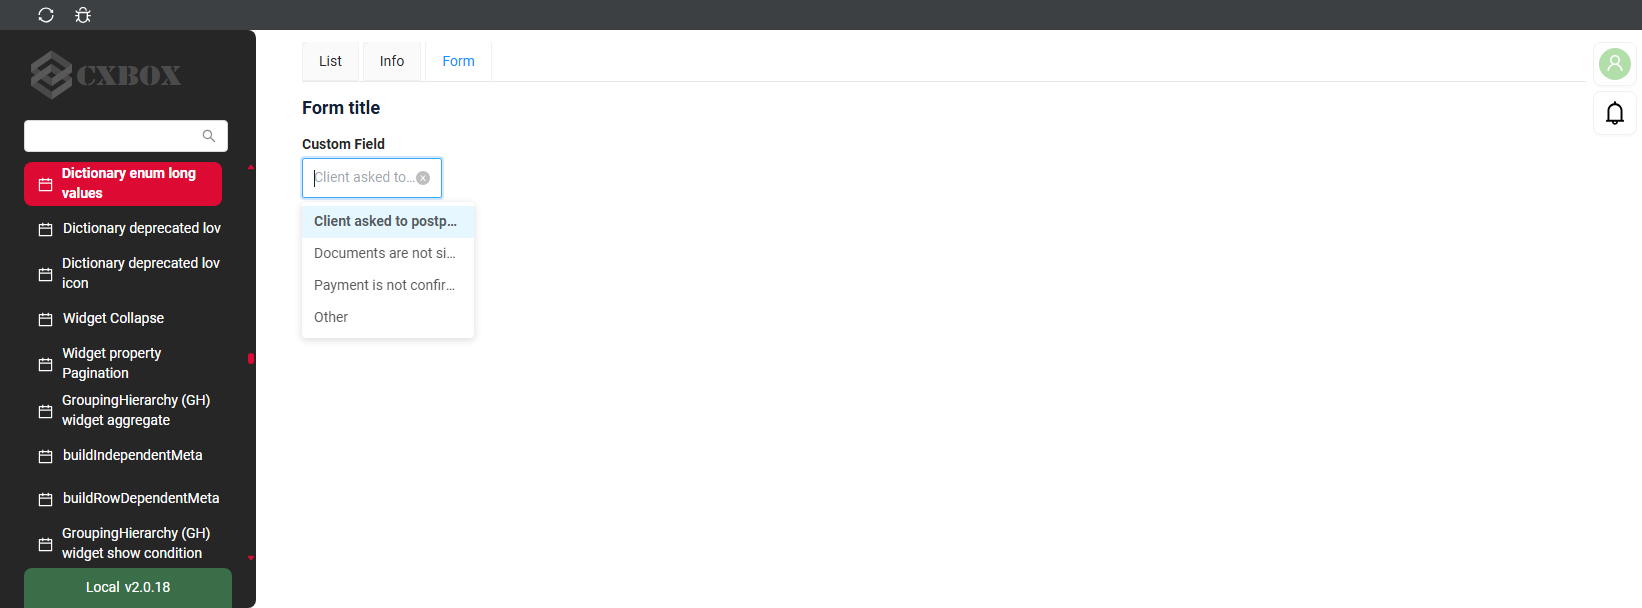
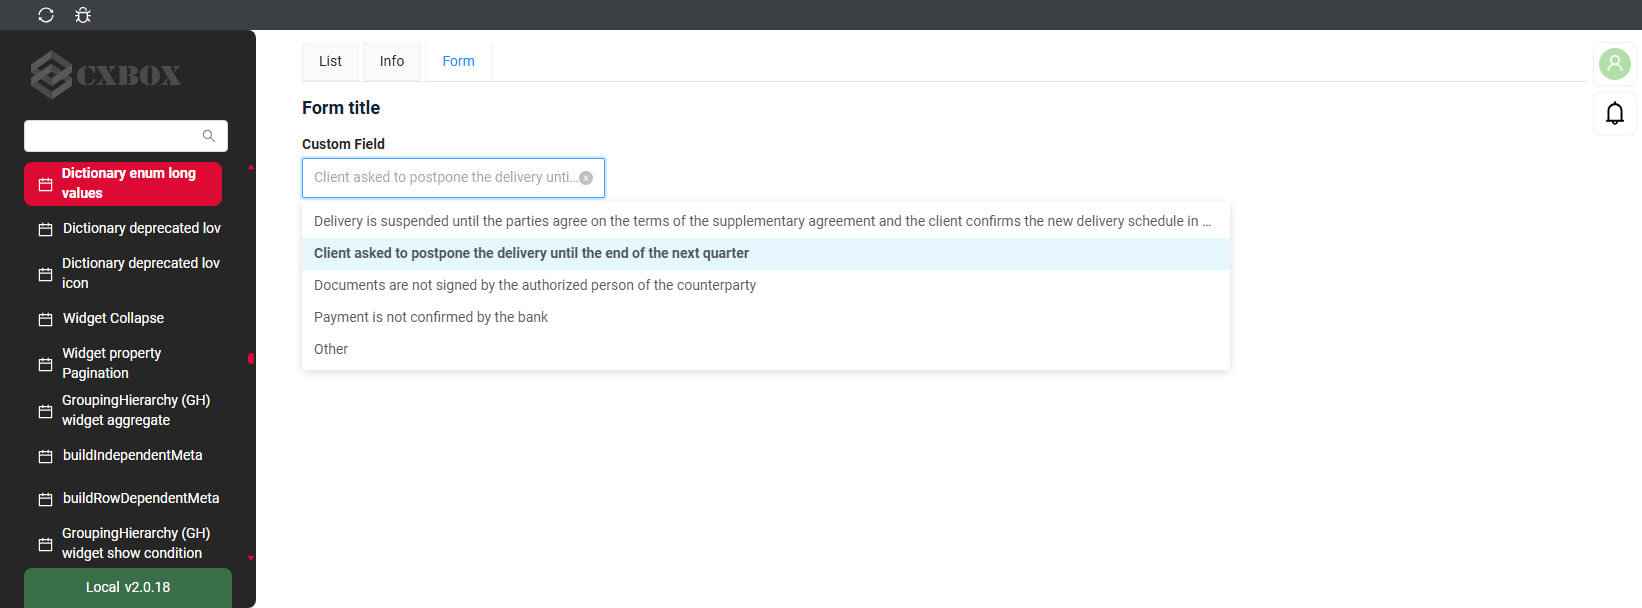
CXBOX-150 | Added. Drop-down width section got List/Info/Form tabs and the List image, dictionary default is 5

Changed region(s): [[0.1864, 0.25, 0.7765, 0.5312], [0.1864, 0.5625, 0.2174, 0.5938]]

diff --git a/docs/widget/fields/field/dictionary/dictionary.md b/docs/widget/fields/field/dictionary/dictionary.md
@@ -1571,14 +1571,19 @@ Custom icons can be uploaded. Icons should be uploaded in SVG format.
 
 ### Width of the drop-down list
 The drop-down list of a dictionary is never narrower than the field and grows with the longest value, but no wider
-than the limit set by a frontend constant (default value 1.3, in field widths).
+than the limit set by a frontend constant (default value 5, in field widths).
 
 * If a value does not fit the resulting width, it is shortened with an ellipsis (...).
 * Hovering over an option shows the full value in a tooltip.
 * Whatever the constant is, the list never takes more than 70% of the view, so it cannot cover the menu.
 
 #### How does it look?
-![img_dropdown_width_form.png](img_dropdown_width_form.png)
+=== "List widget"
+    ![img_dropdown_width_list.png](img_dropdown_width_list.png)
+=== "Info widget"
+    _not applicable_
+=== "Form widget"
+    ![img_dropdown_width_form.png](img_dropdown_width_form.png)
 
 #### How to add?
 ??? Example
@@ -1586,6 +1591,13 @@ than the limit set by a frontend constant (default value 1.3, in field widths).
     ```
     ui/src/fields/Dictionary/constants.ts
     ```
+
+    === "List widget"
+        **Works for List.**
+    === "Info widget"
+        **_not applicable_**, a read-only value has no drop-down list.
+    === "Form widget"
+        **Works for Form.**
 
     [:material-play-circle: Live Sample]({{ external_links.code_samples }}/ui/#/screen/myexample3359){:target="_blank"} ·
     [:fontawesome-brands-github: GitHub]({{ external_links.github_ui }}/{{ external_links.github_branch }}/src/main/java/org/demo/documentation/fields/dictionary/longvalues){:target="_blank"}

diff --git a/docs/widget/fields/field/multipleSelect/multipleSelect.md b/docs/widget/fields/field/multipleSelect/multipleSelect.md
@@ -455,7 +455,12 @@ than the limit set by a frontend constant (default value 1.3, in field widths).
 * Whatever the constant is, the list never takes more than 70% of the view, so it cannot cover the menu.
 
 #### How does it look?
-![img_dropdown_width_form.png](img_dropdown_width_form.png)
+=== "List widget"
+    ![img_dropdown_width_list.png](img_dropdown_width_list.png)
+=== "Info widget"
+    _not applicable_
+=== "Form widget"
+    ![img_dropdown_width_form.png](img_dropdown_width_form.png)
 
 #### How to add?
 ??? Example
@@ -463,6 +468,13 @@ than the limit set by a frontend constant (default value 1.3, in field widths).
     ```
     ui/src/fields/MultipleSelectField/constants.ts
     ```
+
+    === "List widget"
+        **Works for List.**
+    === "Info widget"
+        **_not applicable_**, a read-only value has no drop-down list.
+    === "Form widget"
+        **Works for Form.**
 
     [:material-play-circle: Live Sample]({{ external_links.code_samples }}/ui/#/screen/myexample3358){:target="_blank"} ·
     [:fontawesome-brands-github: GitHub]({{ external_links.github_ui }}/{{ external_links.github_branch }}/src/main/java/org/demo/documentation/fields/multipleselect/longvalues){:target="_blank"}
